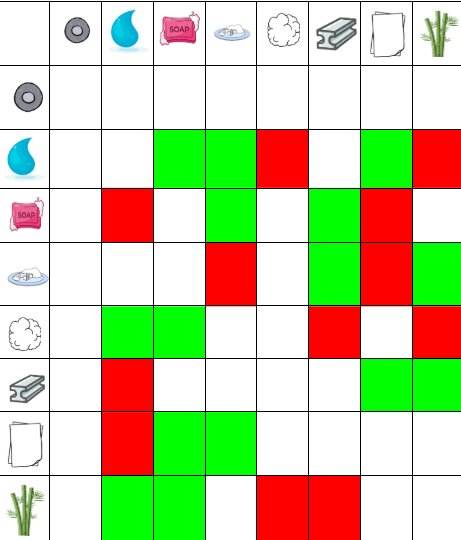
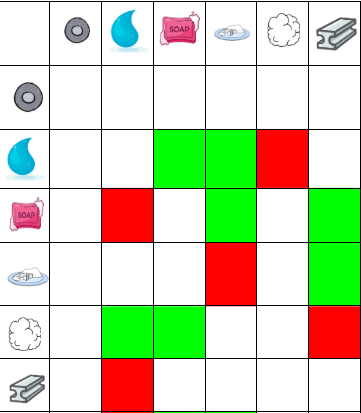
about updates

diff --git a/credits.php b/credits.php
@@ -37,7 +37,7 @@ p{
     font-weight:bold;
     margin: 1px 1px 1px 1px;
 }
-  .button{
+  button{
     padding: 10px 20px;
     font-size: 16px;
     color: rgb(200, 251, 255);
@@ -46,26 +46,8 @@ p{
     font-style: italic;
     background-color: rgb(235, 59, 212);
     border: 2px solid rgb(123, 12, 148);
-    margin: 10px 10px 10px 10px;
+    margin: 10px;
   }
 
     </style>
 
-<?php
-  include "back_button.php";
-?>
-
-<body>
-  <h1>Welcome to Kejmin!</h1>
-  <p>Kejmin is a rpg where you, the player, battles foes with your personal selected Kejmin! <br>
-  The game was made in less than one week by four highschool students! <br>
-  They were able to create a functioning battle system, and multiple 'kejmin' for both the user and enemies! <br>
-  Experience a quaint village where you can Kejmin battle an enemy trainer! <br>
-  Remember to have fun exploring the webpage!</p>
-  
-</body>
-<a class = "button" href = "credits.php">Credits</a>
-
-<footer>
-  <h3>Kejmin was developed by students from Momentum Coding Academy.<h3>
-</footer>

diff --git a/yourteam.php b/yourteam.php
@@ -108,7 +108,7 @@
     </div>
 
     <h3 class = "name"><?php echo $team1Name; ?></h3>
-    <h4 class = "health"> Health: </h4>
+    <!-- <h4 class = "health"> Health: </h4> -->
   </div>
 
   <!-- <div class="card">
@@ -183,7 +183,7 @@
                                                             .card {
                                                               position: relative;
                                                               width: 400px;
-                                                              height: 600px;
+                                                              height: 400px;
                                                               background-color: white;
                                                               border: 2px solid black;
                                                               border-radius: 10px;

diff --git a/navbar.php b/navbar.php
@@ -88,10 +88,10 @@ li a{
         <ul> 
             <li><a href ="#">Hello, <?php echo $_SESSION["userName"];?>!</a></li>
             <li><a href = "Home.php"> Home </a></li>
-            <li><a href = "kejmain.php"> Resume </a></li>
+            <li><a href = "KejMain.php"> Resume </a></li>
             <li><a href = "yourteam.php">Your Kejmin </a></li>
             <li><a href = "chooseyourkejmin.php"> Change Your Kejmin </a></li>
-            <li><a href = "kejmindex.php">Kejmin Dex</a></li>
+            <li><a href = "Kejmindex.php">Kejmin Dex</a></li>
             <li><a href = "map.php"> Map </a></li>
             <li><a href = "tutorial.php"> Tutorial </a></li>
             <li><a href = "about.php"> About </a></li>

diff --git a/index.php b/index.php
@@ -12,7 +12,7 @@ $message = $_GET["message"]."<br>";
 <head>
   <meta charset="UTF-8">
   <meta name="viewport" content="width=device-width, initial-scale=1.0">
-  <title>Login or wtv</title>
+  <title>Login</title>
   <link rel= "icon" type = "image/x-icon" href = "K_Images/KJMN.png">
   <link rel = "stylesheet" href = "loginstyle.css">
   <style>
